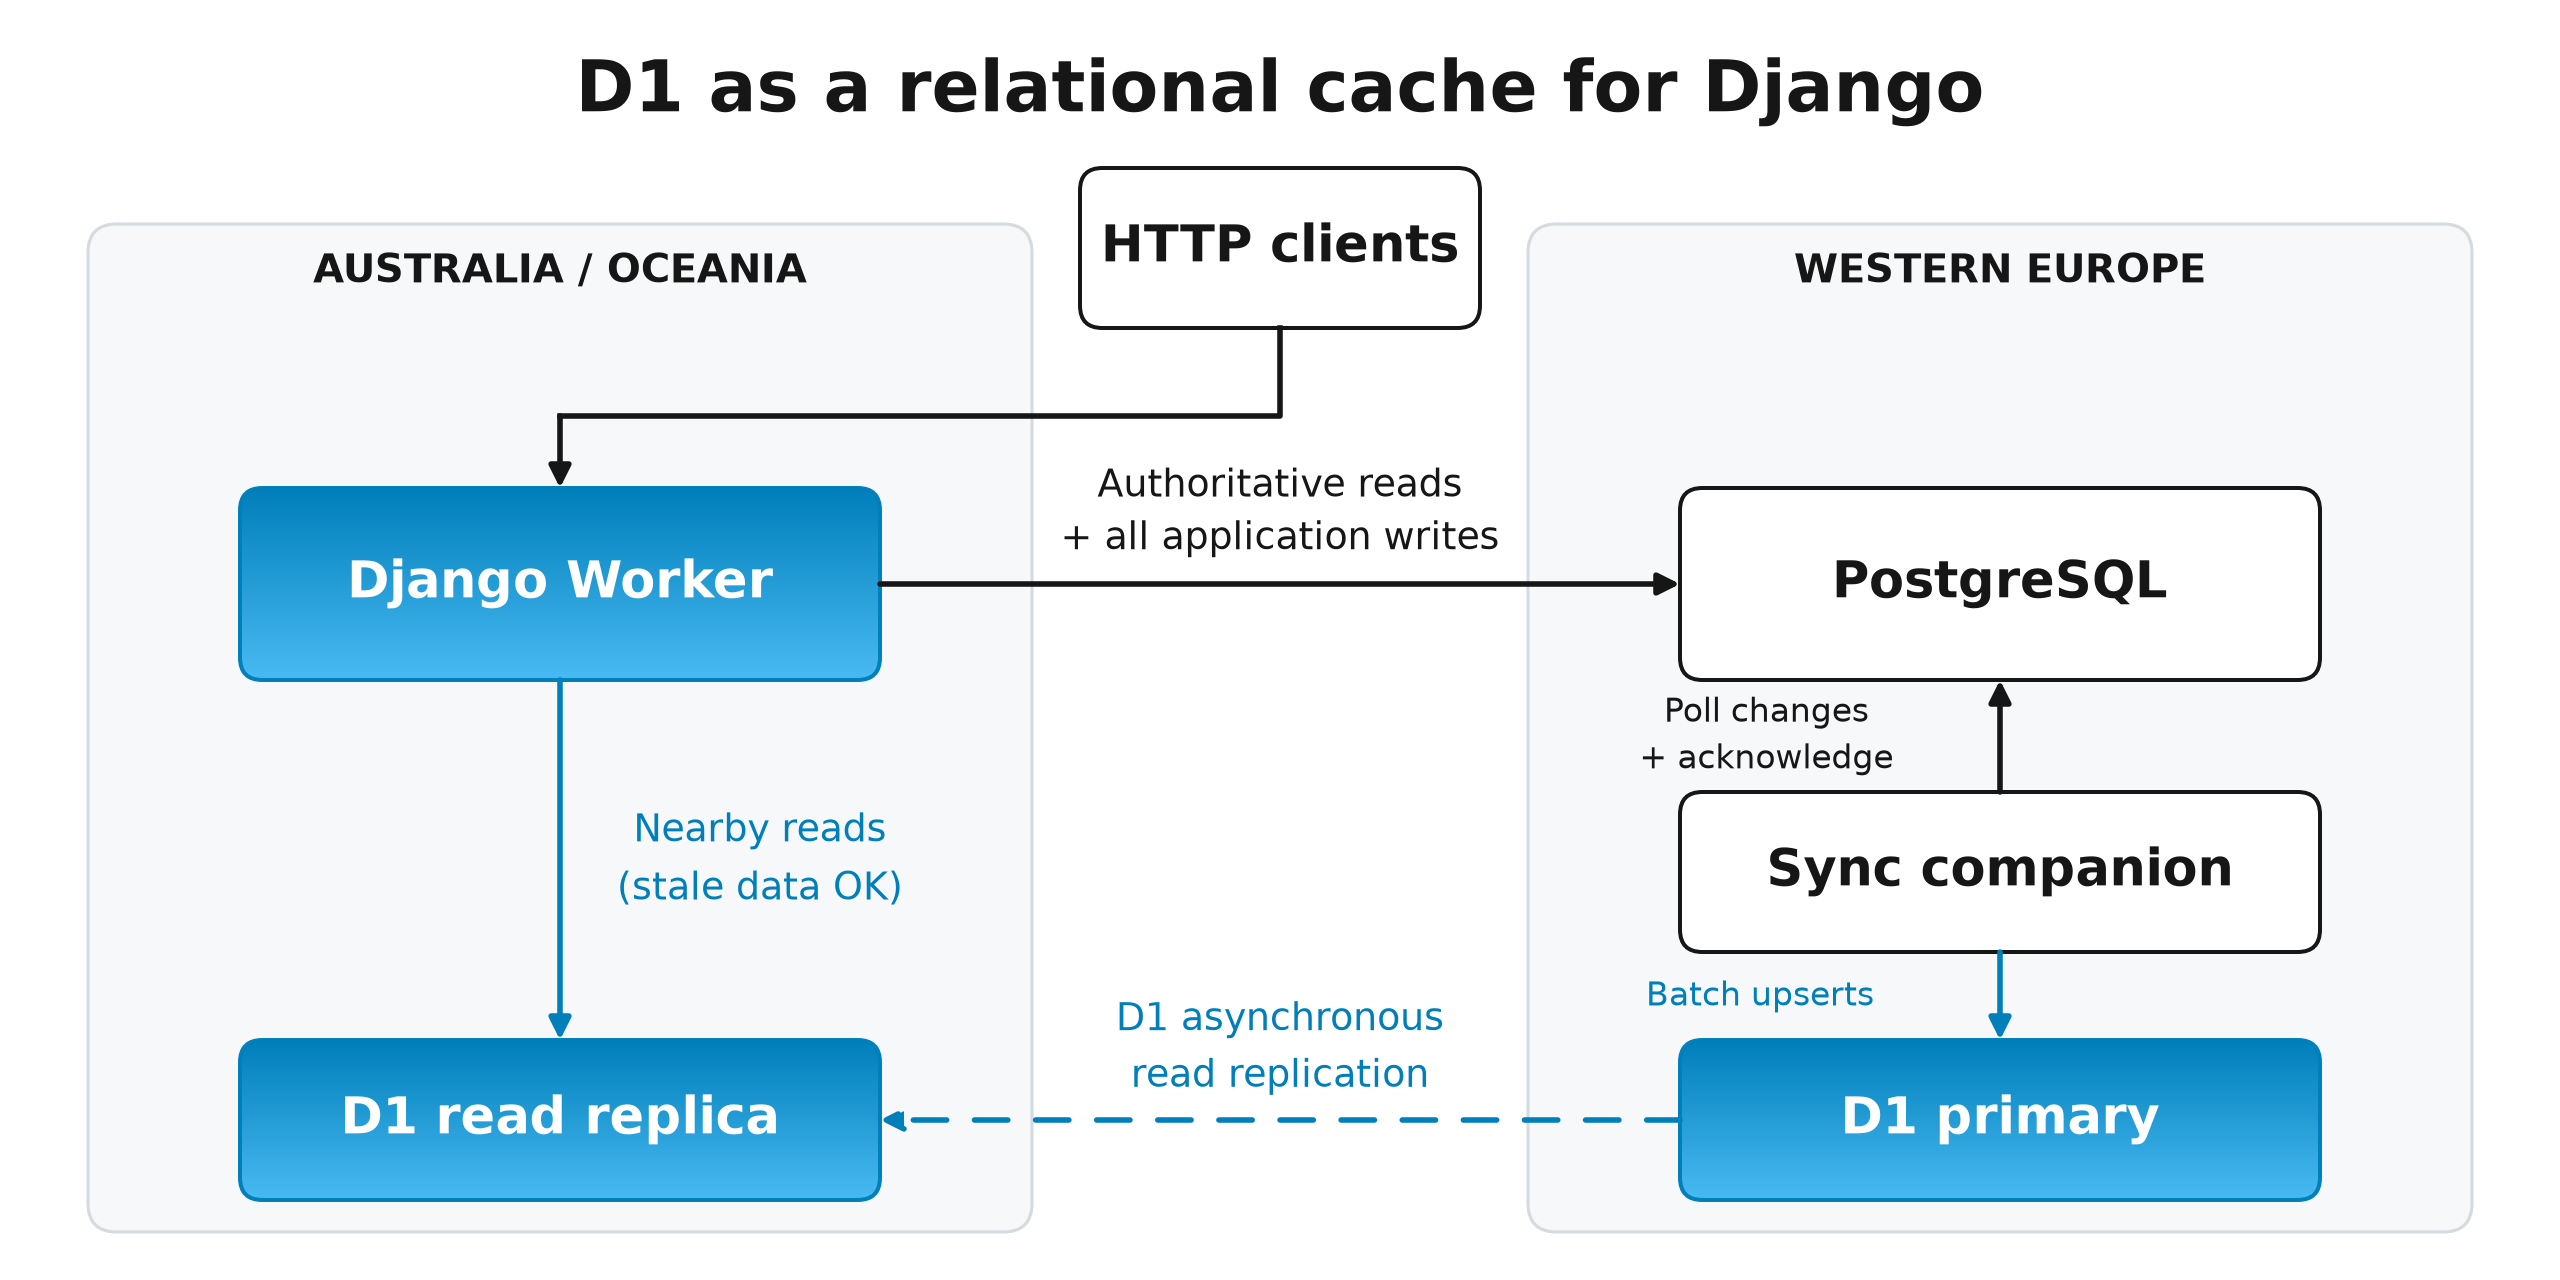
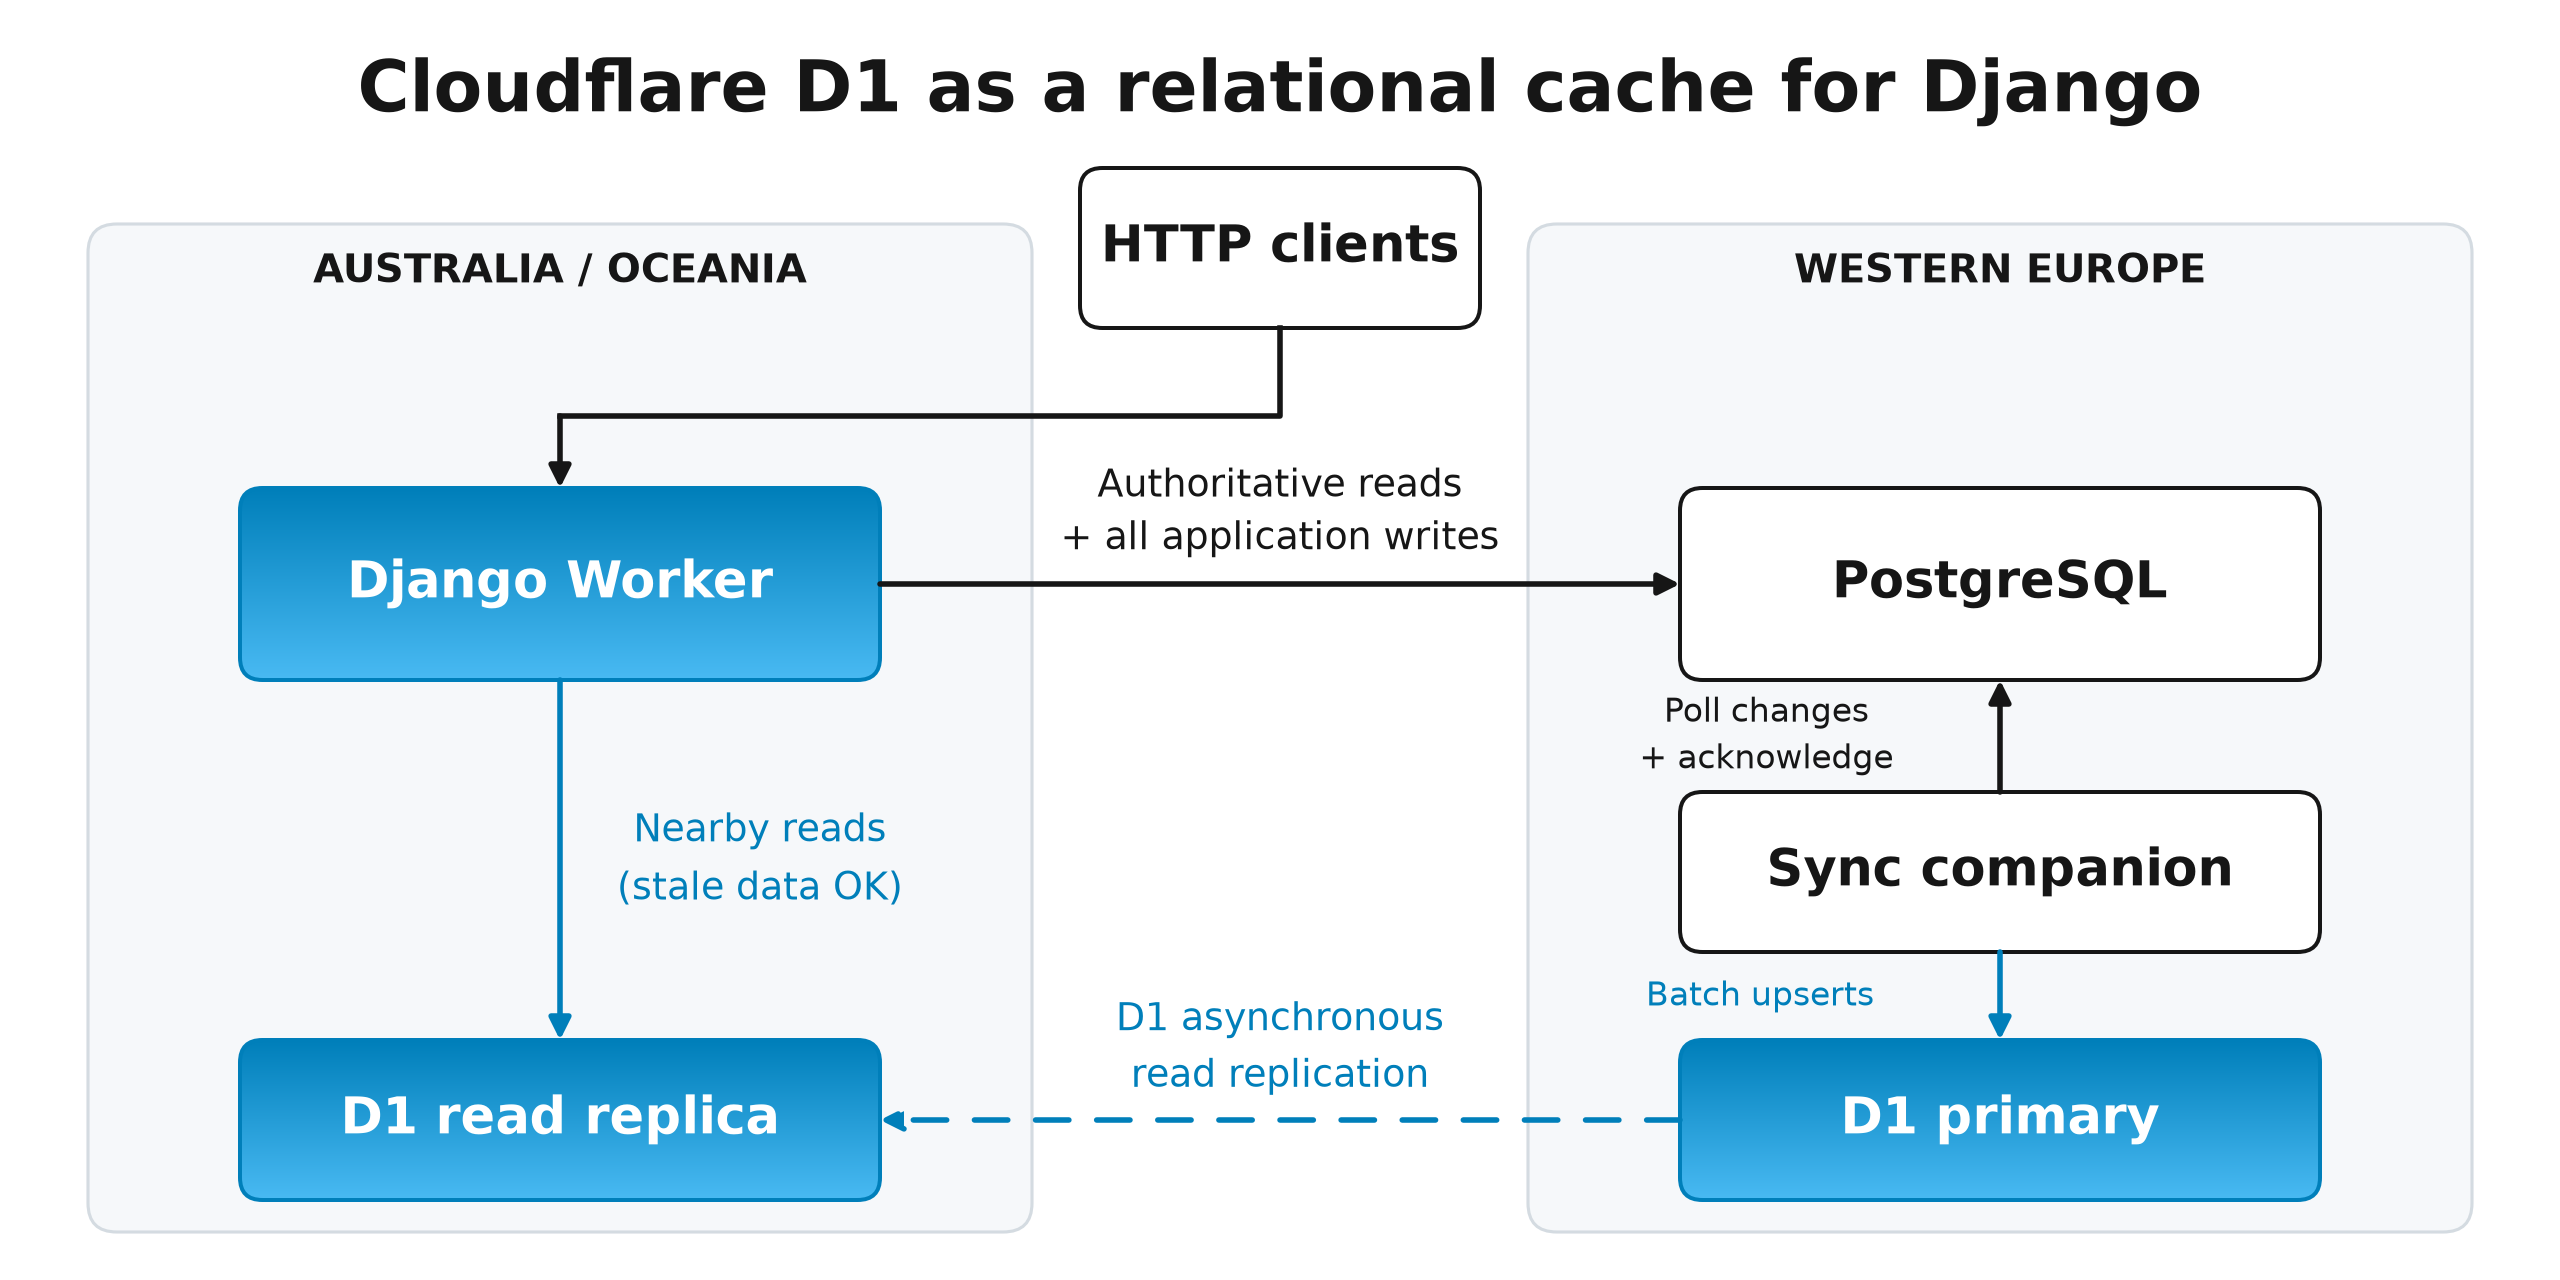
blogging

Changed region(s): [[0.125, 0.0312, 0.875, 0.0938]]

diff --git a/docs/blog/render_architecture.py b/docs/blog/render_architecture.py
@@ -60,7 +60,7 @@ def arrow(start, end, *, blue=False, dashed=False):
     ))
 
 
-text(800, 208, "D1 as a relational cache for Django", 32, weight="bold")
+text(800, 208, "Cloudflare D1 as a relational cache for Django", 32, weight="bold")
 
 # The replica and app are nearby; the source and cache writer stay in Europe.
 for x, width, title in (
@@ -101,7 +101,7 @@ text(800, 805, "D1 asynchronous\nread replication", 17, BLUE, linespacing=1.5)
 for extension in ("png", "svg"):
     destination = ASSETS / f"django-d1-architecture.{extension}"
     fig.savefig(destination, dpi=160, facecolor="white", metadata={
-        "Title": "D1 as a relational cache for Django",
+        "Title": "Cloudflare D1 as a relational cache for Django",
         "Description": "Django queries PostgreSQL for authoritative reads and writes, and D1 for opted-in reads. A Durable Object mirrors pending PostgreSQL rows to D1's primary, which replicates asynchronously to Oceania.",
     })
     print(destination)

diff --git a/docs/blog/render_chart.py b/docs/blog/render_chart.py
@@ -27,7 +27,7 @@ parser.add_argument("--metric", choices=("throughput", "latency"), default="thro
 args = parser.parse_args()
 latency = args.metric == "latency"
 column = "Median API latency (ms)" if latency else "Successful API requests per second"
-title = f'"Across the world"\nDjango API {args.metric} with D1 caching'
+title = f'"Across the world"\nDjango API {args.metric} with Cloudflare D1 caching'
 limit = 4500 if latency else 15
 with (HERE / "django-d1-chart-data.csv").open(newline="") as source:
     rows = list(csv.DictReader(source))

diff --git a/docs/blog/chart-notes.md b/docs/blog/chart-notes.md
@@ -8,7 +8,7 @@ This is the closest match to the existing PostgreSQL 16 vs 17 payments-per-secon
 
 - Category: `Architecture`.
 - Value: `Successful API requests per second`.
-- Title: **"Across the world" Django API throughput with D1 caching**.
+- Title: **"Across the world" Django API throughput with Cloudflare D1 caching**.
 - Y-axis: **Successful API requests per second**. Start at zero; higher is better.
 - Keep the existing white background, bold black title and labels, light horizontal gridlines, blue columns, and DataSystemReviews.com branding.
 - Display values to two decimal places: **2.31**, **2.53**, **12.80**.
